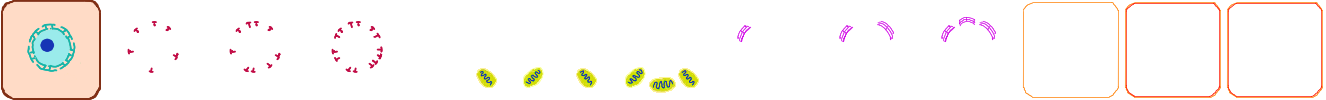
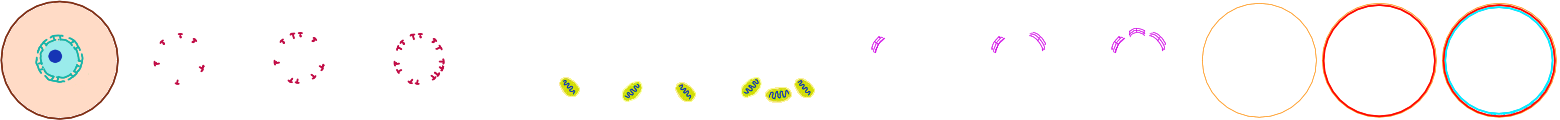
Круглая клетка и курсор-прицел

diff --git a/js/Cell.js b/js/Cell.js
@@ -5,11 +5,11 @@ function Cell(x, y){
     this.hp = this.maxHp = 50;
     this.armor = this.maxArmor = 0;
     this.buildings = [];
-    this.sprite = new Sprite('img/cell.png', [0, 0], [102,100]);
-//    this.buildings.push(new Sprite('img/cell.png', [306, 0], [102,100]));
-//    this.buildings.push(new Sprite('img/cell.png', [612, 0], [102,100]));
-//    this.buildings.push(new Sprite('img/cell.png', [918, 0], [102,100]));
-//    this.buildings.push(new Sprite('img/cell.png', [1224, 0], [102,100]));
+    this.sprite = new Sprite('img/cell.png', [0, 0], [120,120]);
+//    this.buildings.push(new Sprite('img/cell.png', [360, 0], [120,120]));
+//    this.buildings.push(new Sprite('img/cell.png', [720, 0], [120,120]));
+//    this.buildings.push(new Sprite('img/cell.png', [1080, 0], [120,120]));
+//    this.buildings.push(new Sprite('img/cell.png', [1440, 0], [120,120]));
 }
 Cell.prototype = {
     draw : function(ctx){

diff --git a/js/ShopScreen.js b/js/ShopScreen.js
@@ -9,7 +9,6 @@ function show_shop () {
 
 function close_shop () {
     shopscreen.style.display = "none";
-    show_status();
     mainscreen.wave_num++;
     mainscreen.new_wave ();
 }

diff --git a/css/style.css b/css/style.css
@@ -5,6 +5,7 @@ html, body {
 }
 
 #main-screen{
+    cursor : url(../img/cursor.cur), auto;
     margin: auto;
     border: 1px solid black;
     position: absolute;
